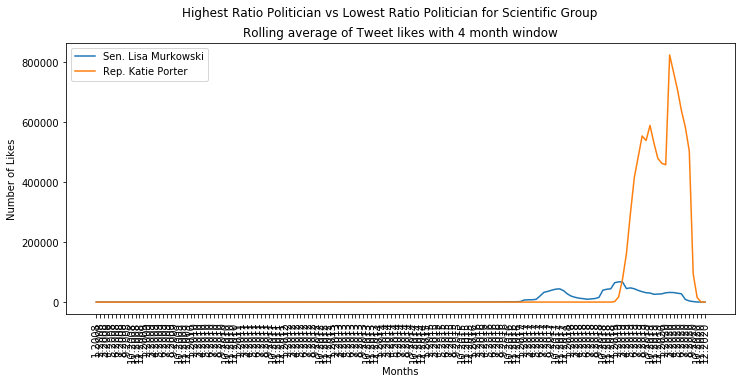
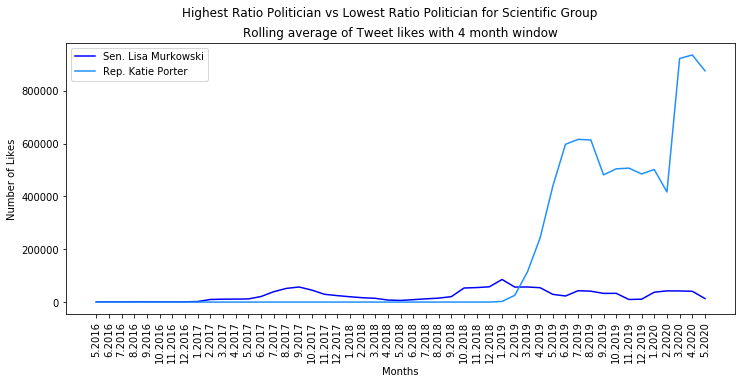
add more visuals

diff --git a/src/lib/metrics_dataviz.py b/src/lib/metrics_dataviz.py
@@ -18,13 +18,13 @@ def sci_largest_ratio(politicians, inpath, outpath):
     plt.figure(figsize=(12, 5))
     
     p1 = politicians[0]
-    x1 = list(data[p1].keys())[100:]
-    y1 = list(data[p1].values())[100:]
+    x1 = list(data[p1].keys())[100:-7]
+    y1 = list(data[p1].values())[100:-7]
     plt.plot(x1, y1, color = 'blue')
     
     p2 = politicians[1]
-    x2 = list(data[p2].keys())[100:]
-    y2 = list(data[p2].values())[100:]
+    x2 = list(data[p2].keys())[100:-7]
+    y2 = list(data[p2].values())[100:-7]
     plt.plot(x2, y2, color = 'dodgerblue')
         
     plt.suptitle('Highest Ratio Politician vs Lowest Ratio Politician for Scientific Group')
@@ -49,8 +49,8 @@ def misinfo_largest_ratio(politicians, inpath, outpath):
     plt.figure(figsize=(12, 5))
 
     p1 = politicians[0]
-    x1 = list(data[p1].keys())[100:]
-    y1 = list(data[p1].values())[100:]
+    x1 = list(data[p1].keys())[100:-7]
+    y1 = list(data[p1].values())[100:-7]
     plt.plot(x1, y1, color = 'orange')
     
     p2 = politicians[1]
@@ -78,16 +78,16 @@ def both_largest_ratio(politicians, sci_inpath, misinfo_inpath, outpath):
     
     plt.figure(figsize=(12, 5))
     p1 = politicians[0]
-    x1 = list(sci_data[p1].keys())[100:]
-    y1 = list(sci_data[p1].values())[100:]
+    x1 = list(sci_data[p1].keys())[100:-7]
+    y1 = list(sci_data[p1].values())[100:-7]
     plt.plot(x1, y1, color = 'blue')
     
     with open(misinfo_inpath) as f:
         misinfo_data = json.load(f)
     
     p2 = politicians[1]
-    x2 = list(misinfo_data[p2].keys())[100:]
-    y2 = list(misinfo_data[p2].values())[100:]
+    x2 = list(misinfo_data[p2].keys())[100:-7]
+    y2 = list(misinfo_data[p2].values())[100:-7]
     plt.plot(x2, y2, color = 'orange')
         
     plt.suptitle('Highest Ratio Politicians from Scientific and Misinformation Groups')
@@ -98,6 +98,76 @@ def both_largest_ratio(politicians, sci_inpath, misinfo_inpath, outpath):
     plt.legend(lst)
         
     plt.savefig(outpath + '/both_ratio_comparison.png', bbox_inches='tight')
+
+
+def most_likes_comparison(politicians, sci_inpath, misinfo_inpath, outpath):
+    """
+    takes in the politicians with the most likes for both groups
+    compares the likes over time 
+    """
+    with open(sci_inpath) as f:
+        sci_data = json.load(f)
+        
+    plt.figure(figsize=(12, 5))
+    
+    p1 = politicians[0]
+    x1 = list(sci_data[p1].keys())[100:-7]
+    y1 = list(sci_data[p1].values())[100:-7]
+    plt.plot(x1, y1, color = 'blue')
+    
+    with open(misinfo_inpath) as f:
+        misinfo_data = json.load(f)
+    
+    p2 = politicians[1]
+    x2 = list(misinfo_data[p2].keys())[100:-7]
+    y2 = list(misinfo_data[p2].values())[100:-7]
+    plt.plot(x2, y2, color = 'orangered')
+    
+    plt.suptitle('Highest Number of Likes from Scientitic and Misinformation Groups')
+    plt.title('Rolling average of Tweet likes with 4 month window')
+    plt.xlabel('Months')
+    plt.xticks(rotation=90) 
+    plt.ylabel('Average Number of Likes over Time')
+    plt.legend(politicians)
+ 
+    plt.savefig(outpath + '/both_most_likes_comparison.png', bbox_inches='tight')
+
+def most_tweets_comparison(politicians, sci_inpath, misinfo_inpath, outpath):
+    """
+    takes in the politicians with the most tweets for both groups
+    compares the likes over time 
+    """
+    with open(sci_inpath) as f:
+        sci_data = json.load(f)
+        
+    plt.figure(figsize=(12, 5))
+    
+    p1 = politicians[0]
+    x1 = list(sci_data[p1].keys())[100:-7]
+    y1 = list(sci_data[p1].values())[100:-7]
+    plt.plot(x1, y1, color = 'blue')
+    
+    with open(misinfo_inpath) as f:
+        misinfo_data = json.load(f)
+    
+    p2 = politicians[1]
+    x2 = list(misinfo_data[p2].keys())[100:-7]
+    y2 = list(misinfo_data[p2].values())[100:-7]
+    plt.plot(x2, y2, color = 'orangered')
+    
+    plt.suptitle('Highest Number of User Tweets from Scientitic and Misinformation Groups')
+    plt.title('Rolling average of Tweet likes over last 200 Tweets')
+    plt.xlabel('Number of Tweets')
+    plt.xticks(rotation=90) 
+    plt.ylabel('Average Number of Likes')
+    plt.legend(politicians)
+ 
+    plt.savefig(outpath + '/both_most_tweets_comparison.png', bbox_inches='tight')
+
+
+
+
+
 
 
 def compare_sci_misinfo(politicians, sci_path, misinfo_path, outpath):

diff --git a/run.py b/run.py
@@ -70,6 +70,13 @@ def main(targets):
         sci_largest_ratio(['Sen. Lisa Murkowski', 'Rep. Katie Porter'], sci_avg_likes_time_path, outpath)
         misinfo_largest_ratio(['Lindsey Graham', 'Tulsi Gabbard 🌺'], mis_avg_likes_time_path, outpath)
         both_largest_ratio(['Sen. Lisa Murkowski', 'Lindsey Graham'], sci_avg_likes_time_path, mis_avg_likes_time_path, outpath)
+
+        most_likes_comparison(['Alexandria Ocasio-Cortez', 'Rep. Jim Jordan'], sci_avg_likes_time_path, mis_avg_likes_time_path, outpath)
+        
+        sci_avg_likes_tweets_path = outpath + 'scientific_avg_likes_over_tweets.json'
+        mis_avg_likes_tweets_path = outpath + 'misinfo_avg_likes_over_tweets.json'
+
+        most_tweets_comparison(['Alexandria Ocasio-Cortez', 'Rep. Jim Jordan'], sci_avg_likes_tweets_path, mis_avg_likes_tweets_path, outpath)
         
 
     if 'permute' in targets or all_flag:
